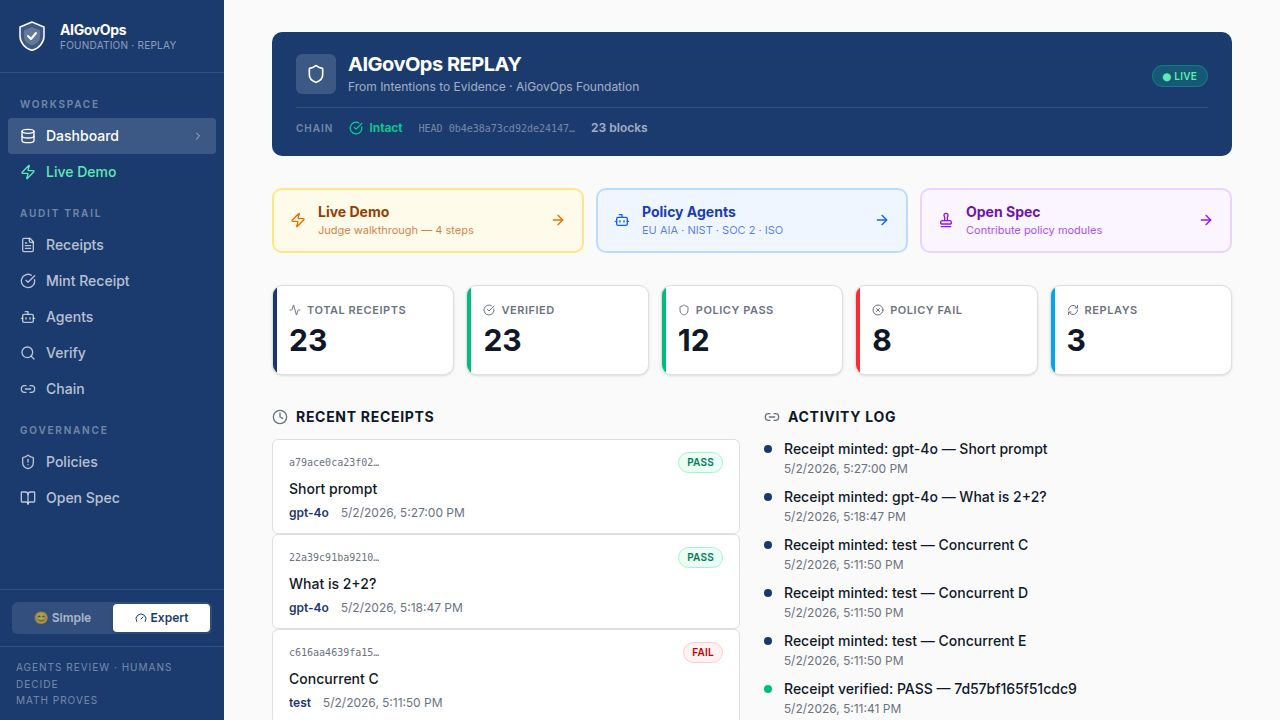
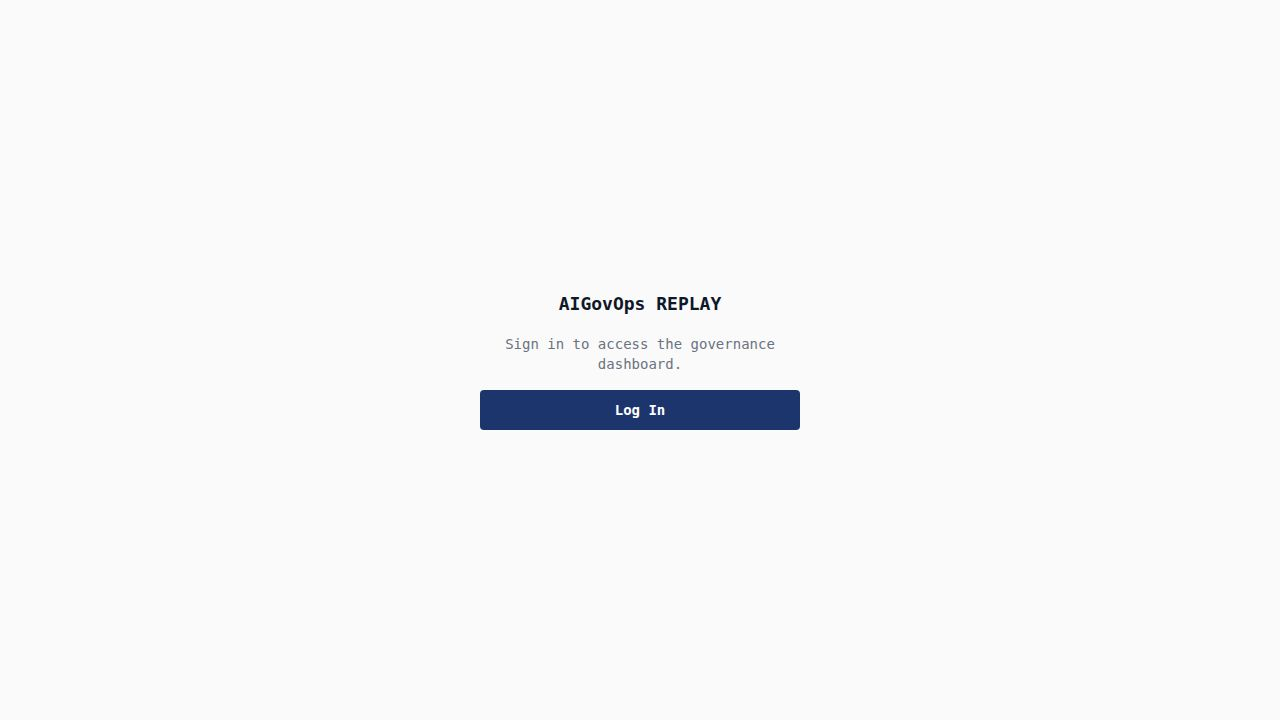
Published your App
Replit-Commit-Author: Deployment
Replit-Commit-Session-Id: d1503ec3-6e5b-48a7-b282-59350d9499bf
Replit-Commit-Checkpoint-Type: full_checkpoint
Replit-Commit-Event-Id: cf14041e-90d6-4a64-927c-abce92889f6b
Replit-Commit-Screenshot-Url: https://storage.googleapis.com/screenshot-production-us-central1/f53da89f-fd8d-4825-ac42-f37cab142530/d1503ec3-6e5b-48a7-b282-59350d9499bf/vxMfL9m
Replit-Commit-Deployment-Build-Id: 20e3b33a-9def-43bc-b15a-6c4de3aec095
Replit-Helium-Checkpoint-Created: true

diff --git a/artifacts/api-server/src/routes/index.ts b/artifacts/api-server/src/routes/index.ts
@@ -1,12 +1,14 @@
 import { Router, type IRouter } from "express";
 import healthRouter from "./health";
 import authRouter from "./auth";
+import adminRouter from "./admin";
 import interactionsRouter from "./interactions";
 import policiesRouter from "./policies";
 const router: IRouter = Router();
 
 router.use(healthRouter);
 router.use(authRouter);
+router.use(adminRouter);
 router.use(interactionsRouter);
 router.use(policiesRouter);
 